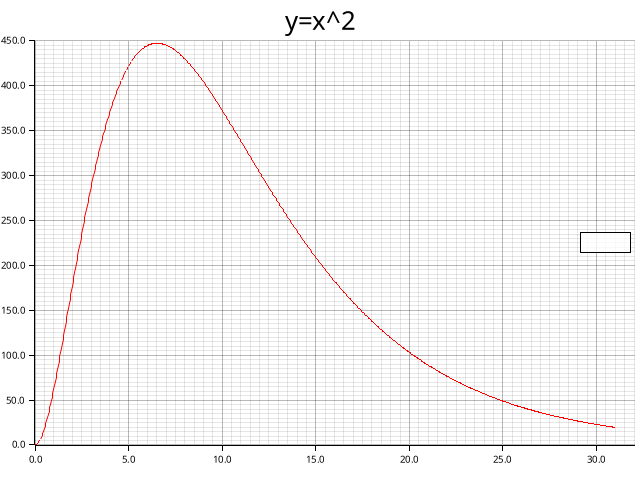
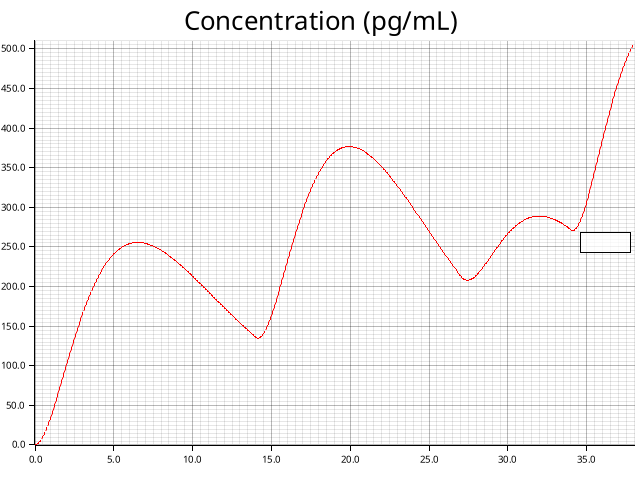
starting to be more functional dose offsets accounted for change graph title various helper functions

diff --git a/src/esters.rs b/src/esters.rs
@@ -104,7 +104,7 @@ pub const EU: Ester = Ester {
 #[derive(Clone)]
 pub struct Dose {
     pub datetime: OffsetDateTime,
-    pub amount: i32, // mg
+    pub amount: f64, // mg
     pub ester: &'static Ester,
 }
 
@@ -112,7 +112,11 @@ pub struct Dose {
 pub fn calc_graph(graph_options: &GraphOptions) -> Vec<f64> {
     const FIT_DOSE: i32 = 5; // we use a fit dose of 5mg here
 
-    let mut concentrations: Vec<f64> = vec![];
+    let total_sample_count = graph_options.samples_per_day
+        * (time_difference(graph_options.date_start, graph_options.date_end));
+
+    println!("{:#?}", total_sample_count);
+    let mut concentrations: Vec<f64> = vec![0.0; total_sample_count.try_into().unwrap()];
     let increment: f64 = 1.0f64 / graph_options.samples_per_day as f64;
 
     for dose in &graph_options.doses {
@@ -121,16 +125,25 @@ pub fn calc_graph(graph_options: &GraphOptions) -> Vec<f64> {
 
         let dose_transform = dose.amount as f64 / FIT_DOSE as f64;
 
-        // days
-        while time <= 31.0 {
+        let dose_offset = calc_concentration_offset(
+            graph_options.date_start,
+            dose.datetime,
+            graph_options.samples_per_day,
+        );
+
+        let total_graph_time =
+            (time_difference(graph_options.date_start, graph_options.date_end)) as f64;
+
+        while time <= total_graph_time {
             let concentration = calc_concentration(time, dose.ester) * dose_transform;
 
-            match concentrations.get(pos) {
+            match concentrations.get(pos + dose_offset) {
                 Some(current_concentration) => {
-                    concentrations[pos] = concentration + current_concentration;
+                    concentrations[pos + dose_offset] = concentration + current_concentration;
                 }
                 None => {
-                    concentrations.push(concentration);
+                    println!("pos: {}", pos);
+                    //panic!("error in calculating graph points, we should never be here");
                 }
             }
 
@@ -155,6 +168,18 @@ pub fn calc_concentration(time: f64, ester: &Ester) -> f64 {
                 / ((d.k1 - d.k2) * (d.k1 - d.k3) * (d.k2 - d.k3)));
 }
 
+// calculates the position of our vec the concentration should be in
+// takes in graph starting date, dose date, and samples per day
+pub fn calc_concentration_offset(
+    graph_start_date: OffsetDateTime,
+    dose_date: OffsetDateTime,
+    samples_per_day: i32,
+) -> usize {
+    (time_difference(graph_start_date, dose_date) * samples_per_day)
+        .try_into()
+        .unwrap()
+}
+
 pub fn convert_units(concentration: f64, unit_from: Unit, unit_to: Unit) -> f64 {
     const E2_MOLAR_MASS: f64 = 272.38; // g/mol
 
@@ -166,4 +191,11 @@ pub fn convert_units(concentration: f64, unit_from: Unit, unit_to: Unit) -> f64 
         Unit::PgML => concentration * E2_MOLAR_MASS / 1000.0,
         Unit::PmolL => concentration / E2_MOLAR_MASS * 1000.0,
     }
+}
+
+// takes in two OffsetDateTimes and returns the difference in hours between them in days
+pub fn time_difference(minuend: OffsetDateTime, subtrahend: OffsetDateTime) -> i32 {
+    (((minuend.unix_timestamp() - subtrahend.unix_timestamp()) as f64) / (60.0 * 60.0 * 24.0))
+        .round()
+        .abs() as i32
 }

diff --git a/src/main.rs b/src/main.rs
@@ -1,7 +1,7 @@
 use time::macros::datetime;
 use time::OffsetDateTime;
 
-use crate::esters::{calc_graph, Dose, EEN};
+use crate::esters::{calc_graph, time_difference, Dose, EEN};
 use crate::graph::{create_graph, GraphOptions};
 
 pub mod config;
@@ -11,27 +11,43 @@ pub mod graph;
 fn main() {
     let doses = vec![
         Dose {
-            datetime: datetime!(2023-8-02 12:00:00 UTC),
-            amount: 7,
+            datetime: datetime!(2023-7-16 12:00:00 UTC),
+            amount: 8.0,
             ester: &EEN,
         },
         Dose {
-            datetime: datetime!(2023-8-09 12:00:00 UTC),
-            amount: 7,
+            datetime: datetime!(2023-7-30 12:00:00 UTC),
+            amount: 10.0,
+            ester: &EEN,
+        },
+        Dose {
+            datetime: datetime!(2023-8-12 12:00:00 UTC),
+            amount: 6.0,
+            ester: &EEN,
+        },
+        Dose {
+            datetime: datetime!(2023-8-19 12:00:00 UTC),
+            amount: 12.0,
             ester: &EEN,
         },
     ];
 
     let graph_options = GraphOptions {
-        date_start: datetime!(2023-8-02 12:00:00 UTC),
-        date_end: datetime!(2023-8-12 12:00:00 UTC),
+        date_start: datetime!(2023-7-16 12:00:00 UTC),
+        date_end: datetime!(2023-8-23 12:00:00 UTC),
         samples_per_day: 24,
         doses: doses.clone(),
     };
 
     let concentrations = calc_graph(&graph_options);
 
-    println!("{:#?}", concentrations);
-
+    // println!("{:#?}", concentrations);
+    println!(
+        "{:#?}",
+        time_difference(
+            datetime!(2023-8-02 12:00:00 UTC),
+            datetime!(2023-8-03 12:00:00 UTC)
+        )
+    );
     create_graph(&concentrations, &graph_options);
 }

diff --git a/src/graph.rs b/src/graph.rs
@@ -1,4 +1,4 @@
-use crate::esters::Dose;
+use crate::esters::{time_difference, Dose};
 use plotters::prelude::*;
 use std::collections::HashMap;
 use time::OffsetDateTime;
@@ -24,15 +24,17 @@ pub fn create_graph(concentrations: &Vec<f64>, graph_options: &GraphOptions) {
         }
     }
 
-    // round to the nearest increment of 100
+    // round to the nearest increment of 100 (for y key)
     highest_concentration = (highest_concentration * 0.1).ceil() / 0.1;
 
+    let graph_x_axis = time_difference(graph_options.date_start, graph_options.date_end) as f64;
+
     let mut chart = ChartBuilder::on(&root)
-        .caption("y=x^2", ("sans-serif", 32).into_font())
+        .caption("Concentration (pg/mL)", ("sans-serif", 32).into_font())
         .margin(5)
         .x_label_area_size(30)
         .y_label_area_size(30)
-        .build_cartesian_2d(0.0..32.0, 0.0..highest_concentration)
+        .build_cartesian_2d(0.0..graph_x_axis, 0.0..highest_concentration)
         .unwrap();
 
     chart.configure_mesh().draw().unwrap();
